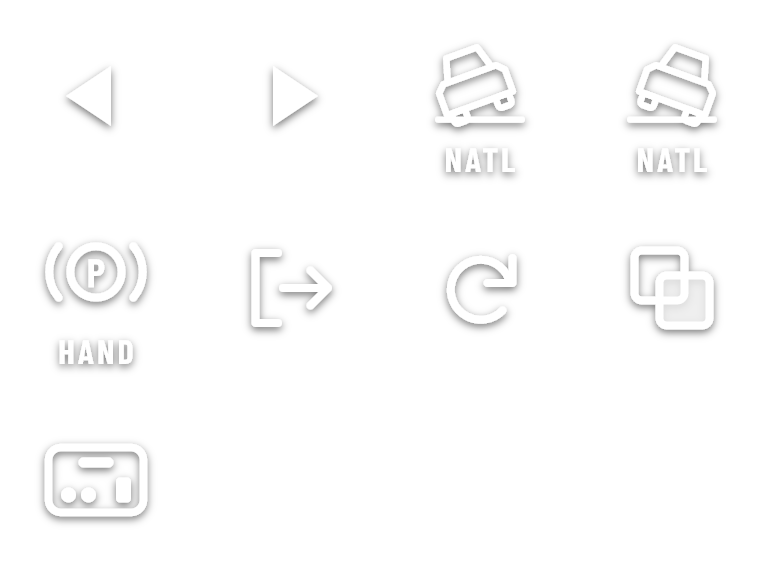
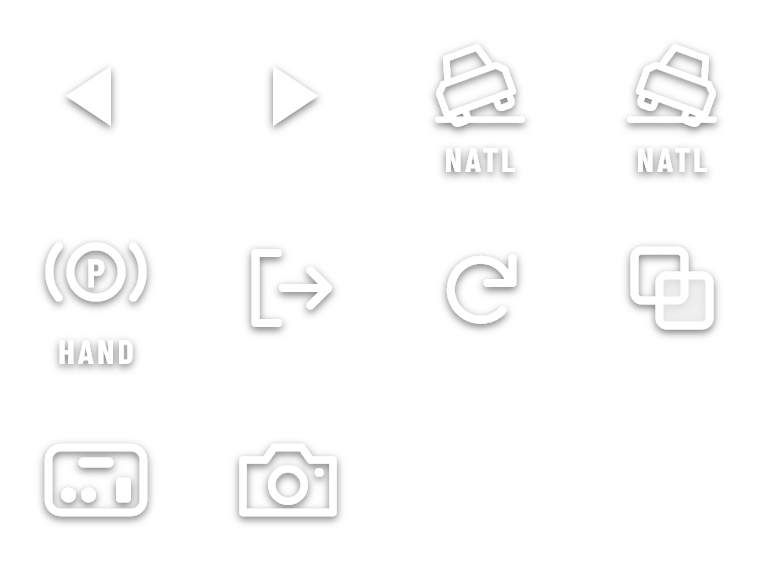
Five driving views to pick from: V or the CAM button cycles them
FAR (the camera as it was), CHASE, CLOSE, LOW and HIGH, in
CarConfig.camera.views. Each sets where the normal profile sits and how
wide it sees; drift and two-wheel keep their own pull-back and swing,
scaled to it. Heights and aim were fitted in Studio on the biggest car so
the whole car stays on screen with the horizon showing (closer in at the
old aim, CLOSE ran the car's tail off the bottom of the screen).

V on a keyboard, a CAM button (new camera icon) between RESET and STYLE
on a phone; "VIEW: CLOSE" shows for a moment. The choice is the
LocalPlayer attribute CamView and lasts the session.

Changed region(s): [[0.2812, 0.7812, 0.4688, 0.9062]]

diff --git a/art/hud/streetd/make.py b/art/hud/streetd/make.py
@@ -19,7 +19,7 @@ however many buttons there are), tacho_face, tacho_needle, pill (cash,
 9-slice), board (the drift score), pedal_gas, pedal_brake.
 
 Shared: icons (white, tinted by the HUD: left, right, natl_l, natl_r, hand,
-exit, reset, style, layout in 192 px cells, 4 across), halo (the lit ring,
+exit, reset, style, layout, view in 192 px cells, 4 across), halo (the lit ring,
 white, tinted), ring (a thin ring: the multiplier's grace), disc (the
 badge's ground), soft (a dark blot behind plateless text),
 coin (the cash), num (white italic digits, NUM_CHARS order in 80x150 cells,
@@ -89,8 +89,12 @@ ICONS = {
     "layout": '<rect x="5" y="11" width="38" height="26" rx="5" stroke="#fff" stroke-width="3" fill="none"/>'
               '<circle cx="13" cy="30" r="3" fill="#fff"/><circle cx="21" cy="30" r="3" fill="#fff"/>'
               '<rect x="32" y="23" width="6" height="10" rx="1.5" fill="#fff"/><rect x="17" y="15" width="14" height="4" rx="2" fill="#fff"/>',
+    # A camera: the driving view (CAM, V on a keyboard).
+    "view": '<g stroke="#fff" stroke-width="3" stroke-linejoin="round" fill="none">'
+            '<path d="M6 16 H15 L18.5 11 H29.5 L33 16 H42 V37 H6 Z"/><circle cx="24" cy="26" r="6.5"/></g>'
+            '<circle cx="36.5" cy="21" r="1.8" fill="#fff"/>',
 }
-ICON_ORDER = ["left", "right", "natl_l", "natl_r", "hand", "exit", "reset", "style", "layout"]
+ICON_ORDER = ["left", "right", "natl_l", "natl_r", "hand", "exit", "reset", "style", "layout", "view"]
 # A label under the icon, as board D had it.
 ICON_LABEL = {"natl_l": "NATL", "natl_r": "NATL", "hand": "HAND"}
 CELL = 192

diff --git a/TUNING.md b/TUNING.md
@@ -352,6 +352,21 @@ The two-wheel profile is active while lifting or balanced; the drift profile pas
 | baseFov / fovPerKmh / maxFov | Speed-widened field of view (vertical, degrees). Normal 70 + 0.11 per km/h up to 96 (81 at 100, 92 at 200), drift 74 + 0.1 to 98, two-wheel 72 + 0.07 to 90; it was 0.08 up to 85 (speed-feel, 2026-10-05). A wider view streams the roadside past faster at the edges; the car looks smaller. |
 | rollFollow | Fraction of the car's roll applied as horizon tilt. Two-wheel profile only, by default. |
 
+### camera.views (client `CameraViews`)
+Views to drive in, cycled with **V** or the phone's CAM button (left of STYLE); the name shows for a moment ("VIEW: CLOSE"). The choice is the LocalPlayer attribute `CamView` (a view's id) and lasts the session. The owner, 2026-10-10: "create different views for when im driving the car (at least 5 for testing purposes, feels to far and zoomed out right now)". Each view is where the **normal** profile sits and how wide it sees; drift and two-wheel keep their own difference from normal, scaled: distance and lateralOffset by the view's distance over normal's, height by its height over normal's, lookHeight and both FOVs moved by the view's, fovPerKmh scaled so each view reaches its maxFov at the same speed. FAR is normal as it was, so it drives exactly as before. The first view is where a session starts.
+
+Heights are from the chassis's centre (1.0 m above the road on the Krown Vik Fleet). Closer in at the old height and aim, the car ran off the bottom of the screen (CLOSE at 5 m, 1.7 up, aim 0.8: its tail at 1.35 of the screen's height), so each view's height and aim (lookHeight; below 0 aims under the chassis's centre) were fitted in Studio on the Krown Vik Fleet, the biggest box (6.5 m with mirrors and tips), to keep the whole car on screen with the horizon showing. Measured parked, as fractions of the screen's height from the top:
+
+| View | distance / height / lookHeight (m) | baseFov → maxFov | Car on screen | Horizon |
+|---|---|---|---|---|
+| FAR | 7.5 / 2.6 / 0.8 | 70 → 96 (as before) | 0.49-0.83 | 0.33 |
+| CHASE | 6.2 / 1.75 / 0.15 | 66 → 88 | 0.41-0.88 | 0.30 |
+| CLOSE | 5.3 / 1.35 / -0.25 | 64 → 84 | 0.34-0.96 | 0.26 |
+| LOW | 5.8 / 0.6 / 0.65 | 64 → 84: about roof height, looking level | 0.47-0.93 | 0.51 |
+| HIGH | 6.8 / 3.35 / 0.1 | 64 → 86: looking down, the slide's angle reads best | 0.40-0.86 | 0.12 |
+
+Closer: smaller distance. Lower: smaller height. Car higher on screen: smaller lookHeight (aims lower). Less zoomed out: smaller baseFov and maxFov. The car's tail sits behind the bottom-middle tacho in every view, FAR included.
+
 ## speedFeel (client `SpeedFeel`)
 Speed you can feel (speed-feel, 2026-10-05). The desert highway is wide and sparse, so little streams past the camera at any speed. **Studio:** the LocalPlayer attribute `SpeedFeelKmh` forces the speed these and the camera read, so a parked car can be framed at 200 km/h.
 
